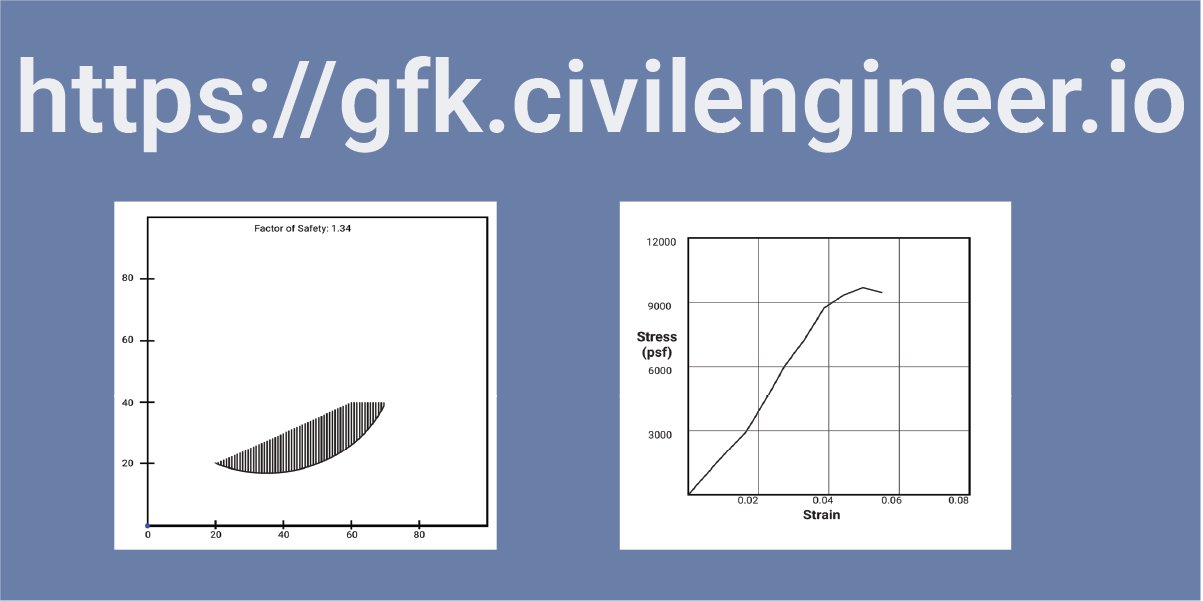
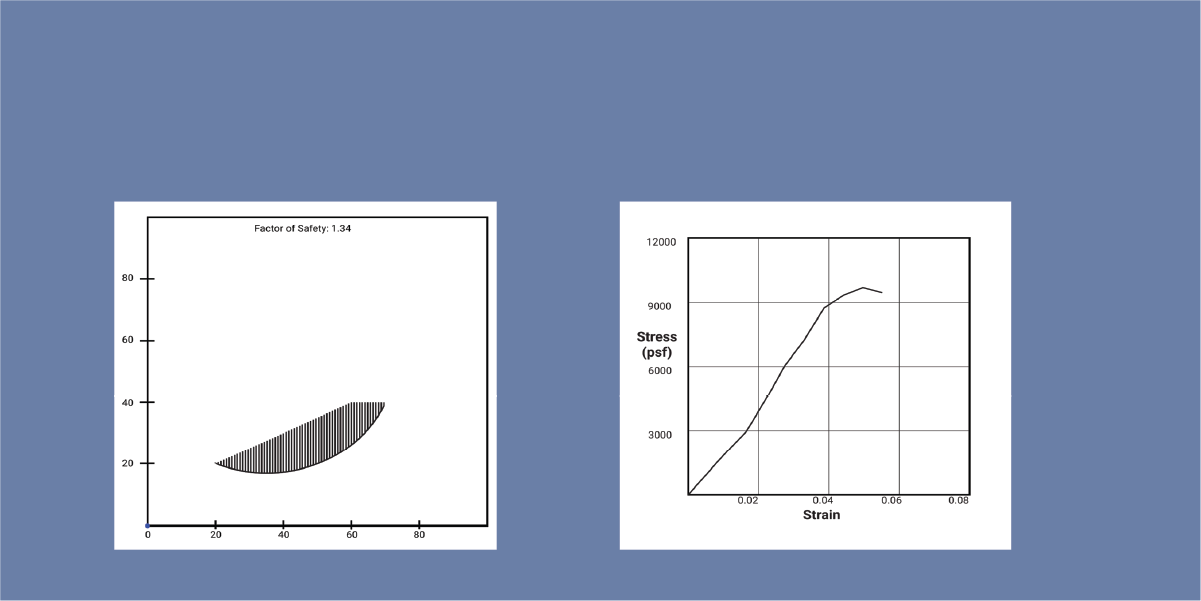
updated gfk login

diff --git a/src/components/login.js b/src/components/login.js
@@ -13,15 +13,12 @@ import { MyStylesheet } from "./styles";
 class Login extends Component {
     constructor(props) {
         super(props)
-        this.state = { email: '', setEmail: "", password: "", setPassword: "", firstname: "", lastname: "", emailaddress: "", profileurl: "", phonenumber: "", apple: "" }
+        this.state = { email: '', setEmail: "", password: "", setPassword: "", firstname: "", lastname: "", emailaddress: "", profileurl: "", phonenumber: "", apple: "", authToken:'' }
     }
 
     async handleAppleLogin() {
 
-
         const auth = getAuth();
-
-
 
 
         try {
@@ -35,11 +32,14 @@ class Login extends Component {
             let phonenumber = "";
             let user = {}
             let apple = "";
+            let authToken = ''
 
             if (result.hasOwnProperty("user")) {
 
                 user = result.user;
                 apple = user.providerData[0].uid;
+                authToken = await user.getIdToken();
+            
 
 
                 if (user.providerData[0].displayName) {
@@ -52,7 +52,7 @@ class Login extends Component {
                 phonenumber = user.phoneNumber;
             }
 
-            this.setState({ firstname, lastname, emailaddress, profileurl, phonenumber, apple })
+            this.setState({ firstname, lastname, emailaddress, profileurl, phonenumber, apple, authToken })
 
 
 
@@ -80,6 +80,7 @@ class Login extends Component {
             let profileurl = "";
             let phonenumber = "";
             let user = {}
+            let authToken
 
 
             const result = await signInWithPopup(auth, googleProvider);
@@ -88,6 +89,7 @@ class Login extends Component {
 
                 user = result.user;
                 google = user.providerData[0].uid;
+                authToken = await user.getIdToken();
                 firstname = user.providerData[0].displayName.split(' ')[0]
                 lastname = user.providerData[0].displayName.split(' ')[1]
                 emailaddress = user.providerData[0].email
@@ -95,7 +97,7 @@ class Login extends Component {
                 phonenumber = user.phoneNumber;
             }
 
-            this.setState({ firstname, lastname, emailaddress, profileurl, phonenumber, google })
+            this.setState({ firstname, lastname, emailaddress, profileurl, phonenumber, google, authToken })
 
             this.clientLogin()
 
@@ -115,7 +117,8 @@ class Login extends Component {
             profileurl,
             phonenumber,
             apple,
-            google
+            google,
+            authToken
         } = this.state;
 
         const values = {
@@ -125,7 +128,8 @@ class Login extends Component {
             profileurl,
             phonenumber,
             apple,
-            google
+            google,
+            authToken
         };
 
         try {
